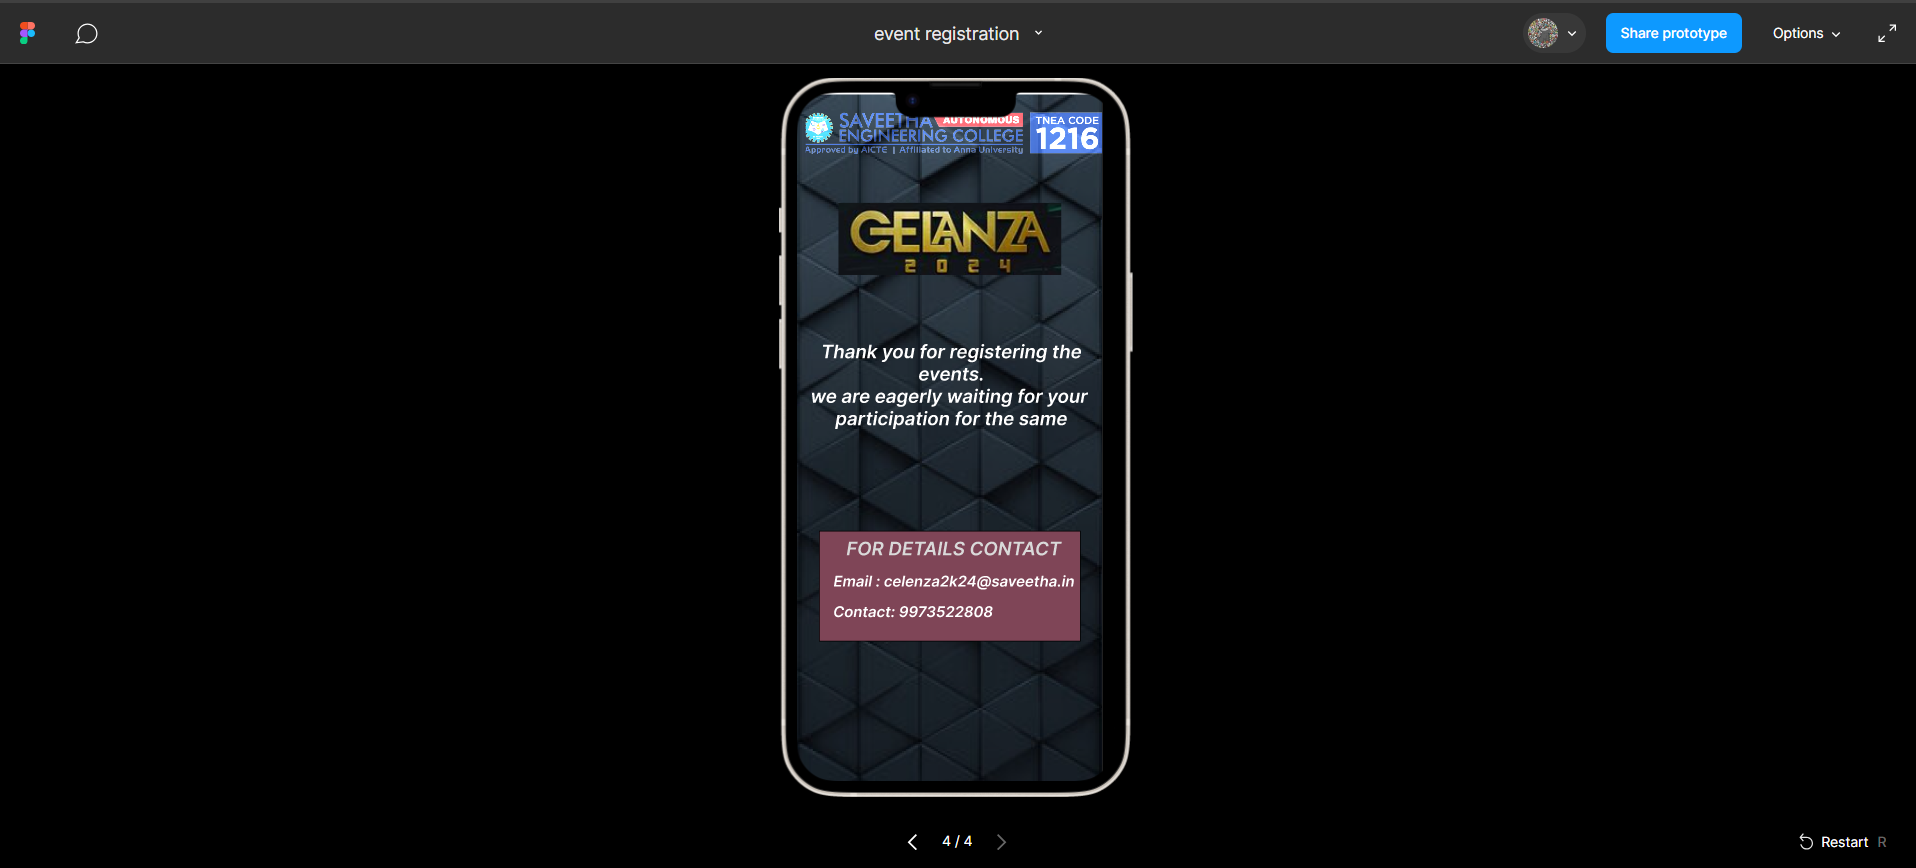
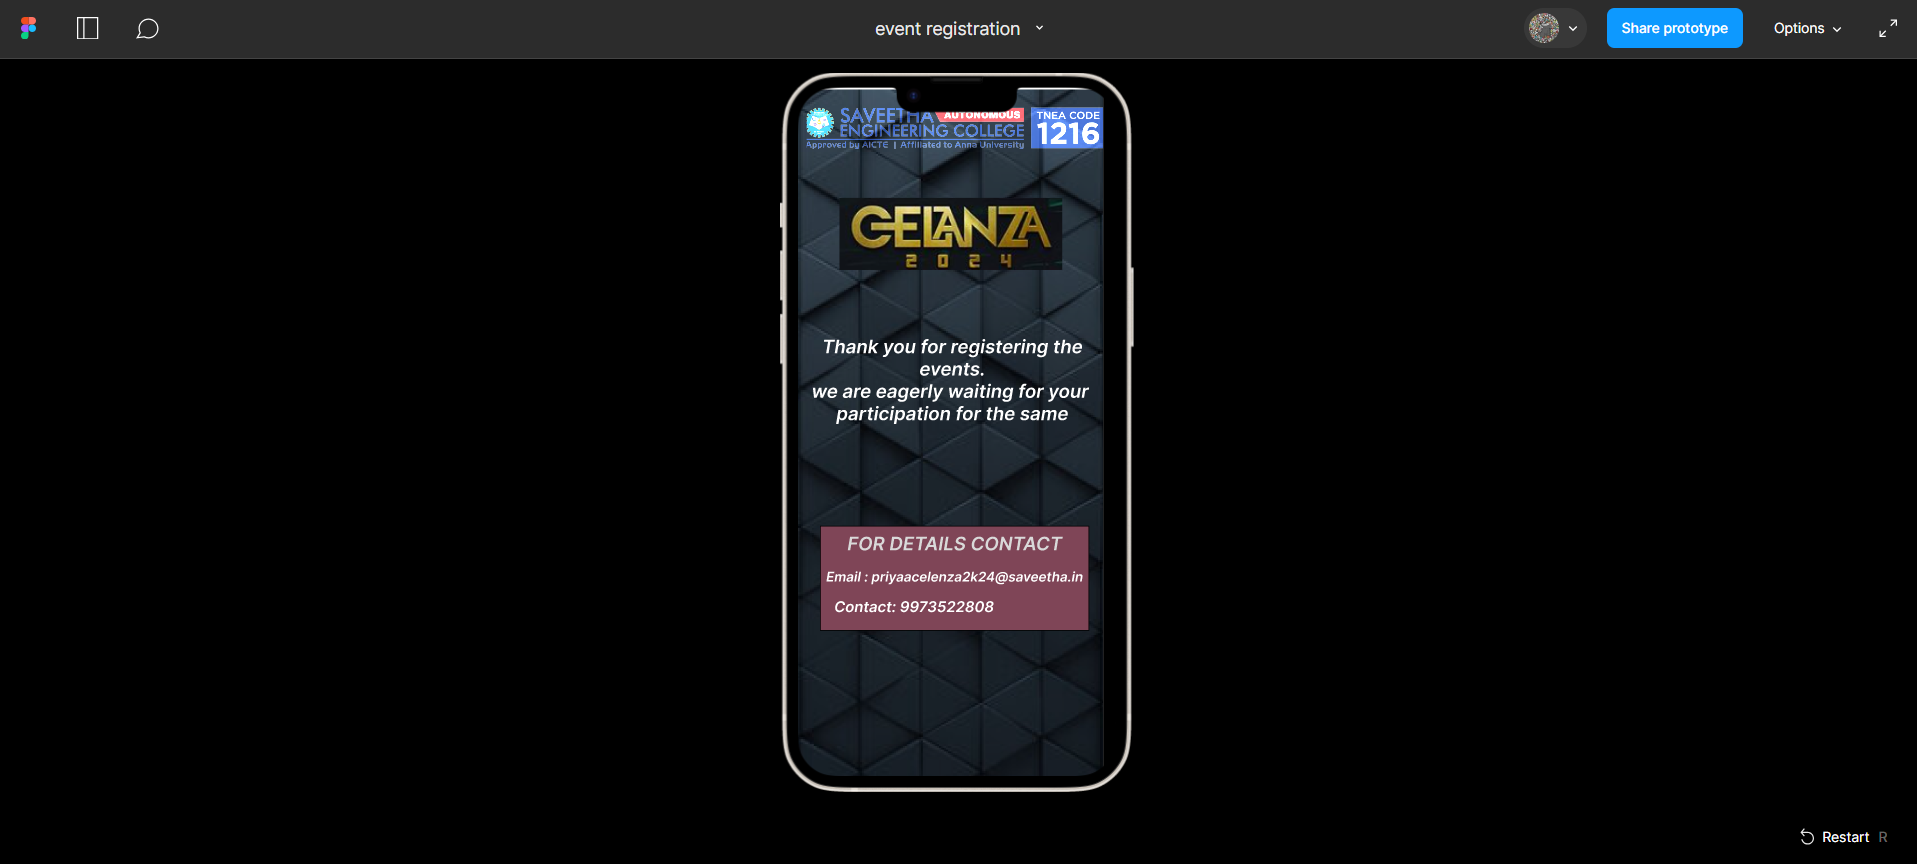
Success

diff --git a/README.md b/README.md
@@ -137,9 +137,9 @@ Page- 4
   <img style="width: 399px; height: 63px; left: 12px; top: 23px; position: absolute" src="https://via.placeholder.com/399x63" />
   <img style="width: 300px; height: 97px; left: 56px; top: 148px; position: absolute" src="https://via.placeholder.com/300x97" />
   <div style="width: 394px; height: 152px; left: 11px; top: 317px; position: absolute; text-align: center; color: white; font-size: 25px; font-family: Inter; font-style: italic; font-weight: 600; word-wrap: break-word">Thank you for registering the events.  we are eagerly waiting for your   participation for the same</div>
-  <div style="width: 352px; height: 149px; left: 30px; top: 589px; position: absolute; background: #7F4557; border: 1px black solid; backdrop-filter: blur(4px)"></div>
+  <div style="width: 362px; height: 141px; left: 30px; top: 589px; position: absolute; background: #7F4557; border: 1px black solid; backdrop-filter: blur(4px)"></div>
   <div style="left: 49px; top: 686px; position: absolute; text-align: center; color: white; font-size: 20px; font-family: Inter; font-style: italic; font-weight: 600; word-wrap: break-word">Contact: 9973522808</div>
-  <div style="left: 49px; top: 645px; position: absolute; text-align: center; color: white; font-size: 20px; font-family: Inter; font-style: italic; font-weight: 600; word-wrap: break-word">Email : celenza2k24@saveetha.in</div>
+  <div style="left: 38px; top: 646px; position: absolute; text-align: center; color: white; font-size: 18px; font-family: Inter; font-style: italic; font-weight: 600; word-wrap: break-word">Email : priyaacelenza2k24@saveetha.in</div>
   <div style="left: 60px; top: 598px; position: absolute; text-align: center; color: #D9D9D9; font-size: 25px; font-family: Inter; font-style: italic; font-weight: 600; word-wrap: break-word"> FOR DETAILS CONTACT </div>
 </div>
 ```
